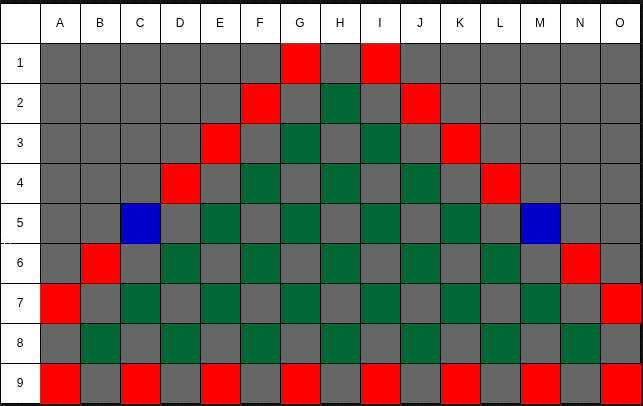
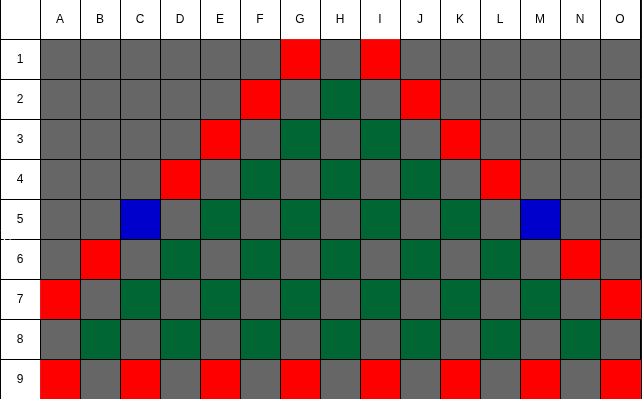
Mudança de Imagens

diff --git a/readme.md b/readme.md
@@ -12,31 +12,28 @@
 
 ## 1. RESUMO DO PROJETO
 
-O jogo Q\*BERT é um clássico arcade em que o jogador controla o personagem-título — uma pequena criatura laranja e esférica com um focinho alongado. O objetivo é ligar todos os blocos da pirâmide, eliminar os inimigos e completar a fase em no máximo 50 movimentos.
+O jogo Q*BERT é um clássico arcade em que o jogador controla o personagem-título — uma pequena criatura laranja e esférica com um focinho alongado. O objetivo é ligar todos os blocos da pirâmide, eliminar os inimigos e completar a fase em no máximo 50 movimentos.
 
-A pirâmide é formada por 28 blocos, dispostos de forma triangular. Q\*BERT começa no topo e pode se mover apenas para as quatro diagonais adjacentes (superior esquerda, superior direita, inferior esquerda e inferior direita).
+A pirâmide é formada por 28 blocos, dispostos de forma triangular. Q*BERT começa no topo e pode se mover apenas para as quatro diagonais adjacentes (superior esquerda, superior direita, inferior esquerda e inferior direita).
 
-No início da fase, todos os blocos estão desligados (0). Sempre que Q\*BERT pisa em um bloco, ele liga esse bloco (1). Quando um disco é usado, ele se torna vermelho, indicando que já foi ativado.
+No início da fase, todos os blocos estão desligados (0). Sempre que Q*BERT pisa em um bloco, ele liga esse bloco (1). Quando um disco é usado, ele se torna vermelho, indicando que já foi ativado.
 
 O jogo apresenta uma variedade de inimigos com comportamentos distintos:
-
-*   **Coily** – Aparece inicialmente como uma bola roxa que desce pela pirâmide. Ao alcançar a base, transforma-se em uma cobra e escolhe um local de parada. Pode ser derrotado se Q\*Bert utiliza um disco lateral, que lhe concede o poder de eliminar inimigos.
-*   **Bolas coloridas** – Caem da segunda fileira da pirâmide.
-    *   **Vermelhas:** são letais para Q\*BERT.
-    *   **Verdes:** concedem 5 passos extras para o jogador.
+*   **Teju** – A Losango roxo que podem impedir que Q*BERT chegue ao disco. Pode cair em qualquer espaço do tabuleiro, menos na linha 3.
+*   **Piolho** – Estrela amarela são letais para Q*BERT. Podem cair em todo o cenário, menos na linha 8.
 
 ### DISCOS LATERAIS
 
-Nos lados esquerdo e direito da pirâmide existem discos flutuantes multicoloridos. Quando Q\*Bert salta em um disco, ele é transportado de volta ao topo da pirâmide.
+Nos lados esquerdo e direito da pirâmide existem discos flutuantes multicoloridos. Quando Q*BERT salta em um disco, ele é transportado de volta ao topo da pirâmide.
 
-Ao pegar o disco do lado esquerdo, Q\*BERT ganha o poder de eliminar inimigos, e o disco não pode ser reutilizado. Além disso, o disco inverte o comportamento dos blocos: ao pisar em um bloco ligado (1), Q\*BERT o desliga (0), e ao pisar em um bloco desligado (0), ele o liga (1).
+Ao pegar o disco do lado esquerdo, Q*BERT ganha o poder de eliminar inimigos, e o disco não pode ser reutilizado. Além disso, o disco inverte o comportamento dos blocos: ao pisar em um bloco ligado (1), Q*BERT o desliga (0), e ao pisar em um bloco desligado (0), ele o liga (1).
 
 ### PONTUAÇÃO E RECOMPENSAS
 
 O sistema de pontuação recompensa tanto ações básicas quanto estratégicas:
 
 *   \+25 pontos por mudar a cor de um cubo.
-*   \+500 pontos por derrotar Coily com o uso de um disco.
+*   \+500 pontos por derrotar Teju com o uso de um disco.
 *   \+1 pontos por cada movimento válido realizado por Q\*BERT.
 *   **Bônus de fase:** começa em 1.000 pontos na primeira tela do Nível 1 e aumenta 250 pontos por cada conclusão subsequente.
 
@@ -52,7 +49,7 @@ O desempenho do agente Q\*BERT é avaliado conforme os seguintes critérios:
 
 *   \+25 pontos por mudar a cor (ligar) de um bloco.
 *   \+1 ponto por cada movimento válido.
-*   \+500 pontos por derrotar Coily (ou outro inimigo) após adquirir o poder com o disco.
+*   \+500 pontos por derrotar Teju (ou outro inimigo) após adquirir o poder com o disco.
 *   Bônus de fase: começa em 1000 pontos, aumentando 250 pontos por cada conclusão subsequente.
 *   **Penalizações:**
     *   Morte do personagem (em blocos de perigo) = perda da fase.
@@ -65,21 +62,24 @@ O desempenho do agente Q\*BERT é avaliado conforme os seguintes critérios:
 ### E (Environment) – Ambiente
 
 *   **Tipo:** Ambiente parcialmente observável, dinâmico e estocástico (há aleatoriedade nos inimigos).
-*   **Cenário:** Grade 9x15 composta por 135 estados possíveis.
+*   **Cenário:** Grade 9x15 composta por 50 estados possíveis.
 *   **Características dos blocos:**
     *   **Verdes:** acessíveis a Q\*BERT e inimigos.
-    *   **Azuis:** discos especiais acessíveis apenas a Q\*Bert — ao pisar, ele é teletransportado para `(8,H)`.
+    *   **Azuis:** discos especiais acessíveis apenas a Q\*Bert — ao pisar, ele é teletransportado para `(2,H)`.
     *   **Vermelhos:** blocos perigosos — causam a morte do personagem.
     *   **Cinzas:** blocos inacessíveis a todos.
 *   **Estados especiais:**
-    *   **(8,H):** posição inicial do agente Q\*BERT
+    *   **(2,H):** posição inicial do agente Q\*BERT
     *   **(5,C)** e **(5,M):** discos que concedem poderes.
     *   Demais blocos podem estar ligados (1) ou desligados (0).
 *   **Inimigos:**
-    *   Bolas vermelhas e verdes e Coily (bola roxa) descem diagonalmente, escolhendo aleatoriamente entre os dois blocos inferiores.
+    ![Teju](imagesMD/Teju.png)
+    ![Piolho](imagesMD/Piolho.png)
+
+    *   Piolho (estrela) e Teju (losango roxo) descem diagonalmente, escolhendo aleatoriamente onde parar no cenário.
     *   Inimigos não podem acessar blocos azuis ou cinzas.
 *   **Regra do disco:**
-    *   Após usar um disco, Q\*BERT retorna ao topo `(8,H)`.
+    *   Após usar um disco, Q\*BERT retorna ao topo `(2,H)`.
     *   O disco torna-se vermelho (inutilizável).
     *   O poder do disco permite matar inimigos e inverter o comportamento dos blocos (pisar liga ↔ desliga).
 
@@ -90,7 +90,7 @@ O agente Q\*BERT pode executar as seguintes ações:
 *   Mover-se diagonalmente em qualquer uma das quatro direções possíveis:
     *   superior esquerda, superior direita, inferior esquerda, inferior direita.
 *   Ativar blocos (pisar em blocos e alterar seu estado 0→1 ou 1→0 após obter o disco).
-*   Usar discos azuis para ser teleportado ao topo `(H9)`.
+*   Usar discos azuis para ser teleportado ao topo `(2,H)`.
 *   Eliminar inimigos (após adquirir o poder do disco).
 *   Esperar (em caso de pausa após eliminar inimigos, se houver).
 
@@ -122,7 +122,7 @@ O agente Q\*BERT pode perceber:
 *   **Pontuação:**
     *   \+1 por mover para um bloco válido.
     *   \+5 ao ligar um bloco 0→1.
-    *   \+20 por matar inimigo (Coily ou bola vermelha) quando com poder.
+    *   \+20 por matar inimigo (Teju ou Piolho) quando com poder.
     *   \+10 por usar disco válido (teleporte).
     *   Episódio termina com vitória quando (blocos=1 AND inimigos=0) antes ou no 50º movimento.
 
@@ -131,28 +131,26 @@ O agente Q\*BERT pode perceber:
 **Layout e tipos de célula:**
 
 *   **Verde:** bloco acessível (por todos);
-    *   `(8,H)` é acessível apenas a Q\*BERT e é a posição inicial.
+    *   `(2,H)` é acessível apenas a Q\*BERT e é a posição inicial.
 *   **Cinza:** inacessível para todos (parede/vazio).
 *   **Azul:** discos em `(5,C)` e `(5,M)` (acessíveis só por Q\*BERT); após uso viram vermelho (inativo).
 *   **Vermelho:** bordas/poços; entrar em qualquer um dos estados mortais abaixo causa morte imediata.
 *   **Estados mortais (entrar = morte):**
-    *   `(1,A) (1,C) (1,E) (1,G) (1,I) (1,K) (1,M) (1,O), (3,A) (3,O), (4,B) (4,N), (6,D) (6,L), (7,E) (7,K), (8,F) (8,J), (9,G) (9,I)`.
+    *   `(1,G) (1,I), (2,F) (2,J), (3,E) (3,K), (4,D) (4,L), (6,B) (6,N), (7,A) (7,O), (9,A) (9,C), (9,E) (9,G), (9,I) (9,K), (9,M) (9,O).`.
 
 **REGRAS GLOBAIS:**
 
 *   Q\*BERT se move apenas nas diagonais:
     *   superior direita, superior esquerda, inferior direita e inferior esquerda entre vizinhos válidos.
-*   Inimigos (bolas vermelhas e Coily) descem níveis:
-    *   a cada passo escolhem aleatoriamente uma das duas diagonais inferiores possíveis.
-*   Teleporte: ao pular num disco azul ⇒ Q\*BERT vai para `(8,H)`. O disco usado torna-se vermelho (inativo).
-*   Coily morre se Q\*BERT usar disco estando a ≤ 2 movimentos de distância (Coily salta para onde estava o disco e cai).
+*   Inimigos (Piolho e Teju) descem diagonalmente, escolhendo aleatoriamente onde parar no cenário.
+*   Teleporte: ao pular num disco azul ⇒ Q\*BERT vai para `(2,H)`. O disco usado torna-se vermelho (inativo).
 *   Blocos começam desligados (0).
 
 **ESTADOS DO AGENTE:**
 
 *   **MODO\_NORMAL** (início): sem poder; ao pisar num verde: 0→1 (liga).
-*   **MODO\_PODER** (após pegar um disco): teleporta para `(9,H)`; ganha habilidade de matar inimigos por contato, comportamento de cor inverte (pisar troca: 1→0, 0→1).
-*   **MODO\_FINALIZAÇÃO** (após matar todos os inimigos e pegar o outro disco): teleporta para `(9,H)` e volta a inverter os blocos.
+*   **MODO\_PODER** (após pegar um disco): teleporta para `(2,H)`; ganha habilidade de matar inimigos por contato, comportamento de cor inverte (pisar troca: 1→0, 0→1).
+*   **MODO\_FINALIZAÇÃO** (após matar todos os inimigos e pegar o outro disco): teleporta para `(2,H)` e volta a inverter os blocos.
 
 ### A (Actuators) – Atuadores
 
@@ -163,7 +161,7 @@ O agente Q\*BERT pode perceber:
 
 **Percepção total do estado:**
 
-*   Posição de Q\*BERT (início em `(8,H)`).
+*   Posição de Q\*BERT (início em `(2,H)`).
 *   Modo atual: `NORMAL` | `PODER` | `FINALIZAÇÃO`.
 *   Contador de movimentos restantes (de 50 até 0).
 *   Mapa com tipo de cada célula (verde/cinza/azul/vermelho) e estado de cor dos verdes (0/1).
@@ -176,18 +174,16 @@ O agente Q\*BERT pode perceber:
 
 ### ESTRUTURA DE ESTADOS:
 
-*   **PosQBert:** posição do agente `(8,H)`.
+*   **PosQBert:** posição do agente `(2,H)`.
 *   **Modo:** normal | poder | finalizado.
 *   **Blocos:** lista com o estado de cada bloco verde (ligado=1 / desligado=0).
 *   **DiscoC (DC) , DiscoM (DM):** ativo/usado.
 *   **MovimentosRestantes:** número de passos (até 50).
 
-![Estrutura_Estado](imagesMD/Estrutura_Estado.png)
-
 ### Fatos Iniciais:
 
 *   Posição inicial e posições especiais.
-    *   **(8,H):** Posição inicial.
+    *   **(2,H):** Posição inicial.
     *   **normal:** modo padrão (sem poder).
     *   **todos\_desligados:** todos os blocos verdes estão em 0.
     *   **ativo, ativo:** os discos C e M ainda podem ser usados.
@@ -200,14 +196,11 @@ Esses dados são a base fixa do ambiente.
 
 ![Pos_Inicial](imagesMD/Pos_Inicial.png)
 
-![Discos](imagesMD/Discos.png)
-
 ![Pos_Inacessivel](imagesMD/Pos_Inacessivel.png)
 
 ![Pos_Vermelha](imagesMD/Pos_Vermelha.png)
 
 ![Pos_Verde](imagesMD/Pos_Verde.png)
-
 
 (O verde precisa ser feito para todas as posições possíveis).
 
